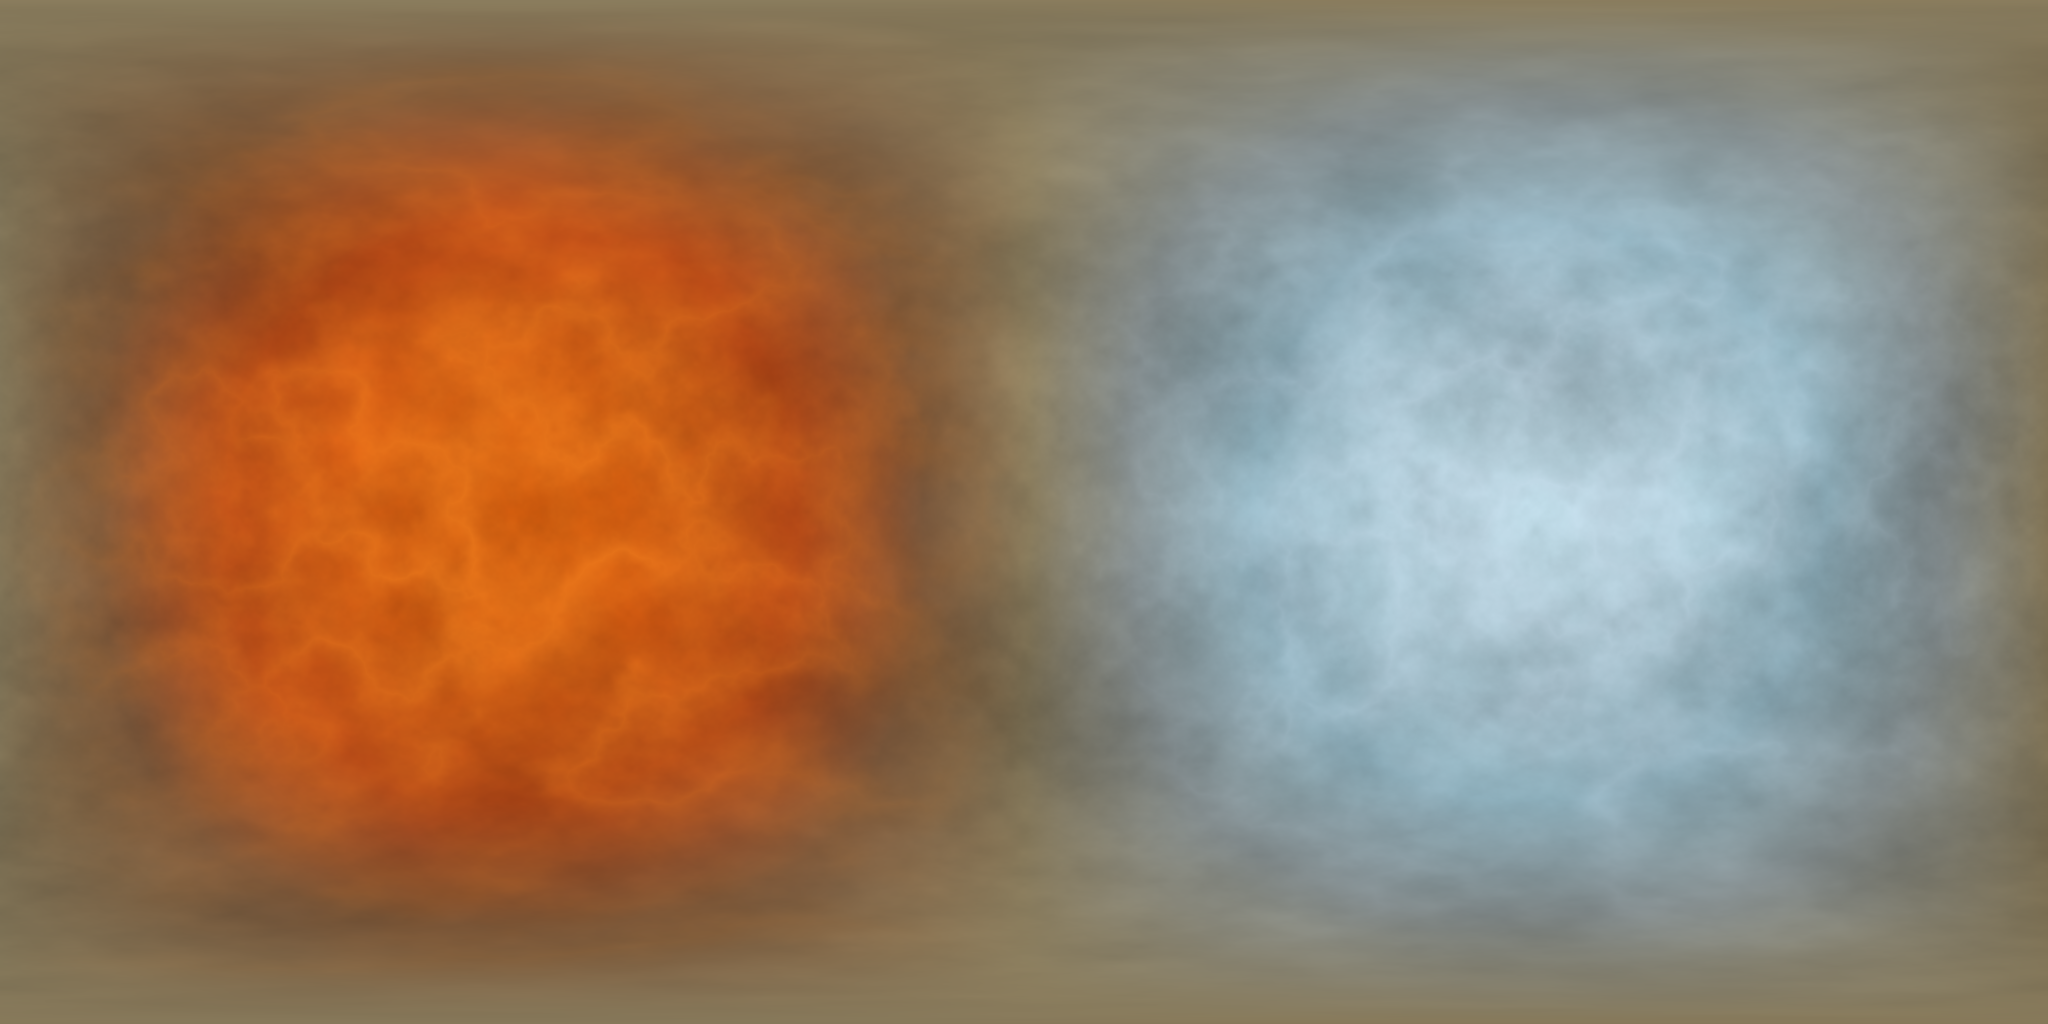
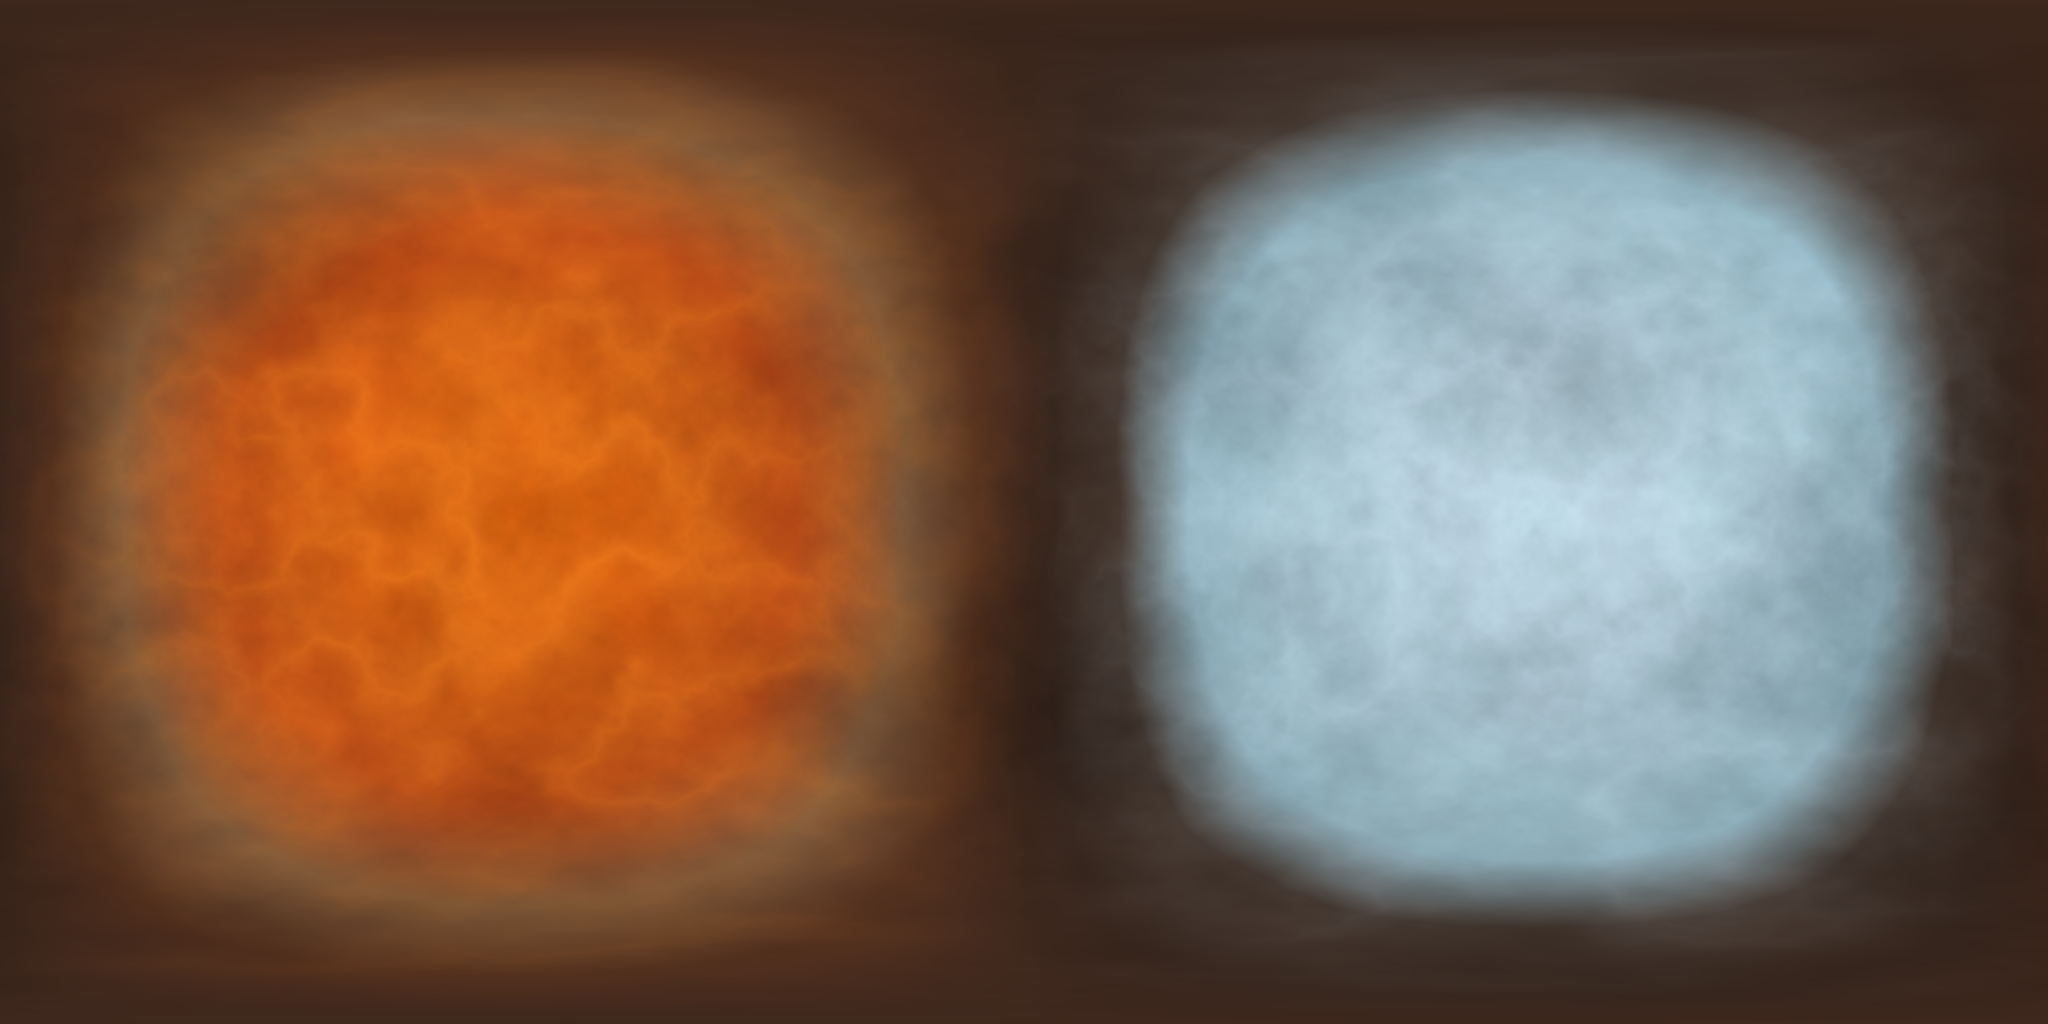
feat: dark volcanic mountain terminator, kill gray/tan band (ci-6i1)
The star-map globe showed an ugly wide GRAY/TAN vertical stripe between the
volcanic side and the ice side. It was painted into the albedo by the two middle
TERRAIN_STOPS in scripts/gen-planet-maps.py: a sandy building-neutral
(0.62,0.56,0.42) and a cool grey dust (0.60,0.64,0.64), the old "survivable sandy
terminator ribbon". On the tidally-locked disc they filled a broad central swath.

Replace both neutrals with a broad band of DARK VOLCANIC MOUNTAINS (reddish-brown
/ near-black basalt #5A3524, #3E2A20, #4A3A30) filling the middle third, so the
disc reads molten -> dark mountains -> ice with no gray/tan blur. The fire lava
ends and the cold frost/ice ends are unchanged.

terrain.lua COLOR_STOPS (the in-game map-view danger gradient) is updated in
lockstep so the from-space art and the map view stay consistent, per the ramp's
documented mirror contract. This is the map-view / from-space COLOUR overlay only,
not the ground TILE textures: the building band at spawn is still sandy soil tiles
(§3), it just paints dark on the map dot.

test_planet_maps.py: the "sandy midpoint" terminator assertion is replaced with a
dark-mountain guard (low luminance, warm R>G>B, R clearly above B, NOT neutral
gray). The fire and ice guards are kept. Maps regenerated + star-map re-baked via
render-planet.sh; the live orbital backdrop inherits the same maps, confirmed with
a headless EGL render saved to docs/verification/ci-6i1-terminator-orbital.png.
[…]

diff --git a/mods/cindra/unit-tests/test_planet_maps.py b/mods/cindra/unit-tests/test_planet_maps.py
@@ -3,12 +3,19 @@
 #
 # The map generator is pure and deterministic, so its output is testable off-game
 # without Blender or Factorio. This guards the ci-i9m REDESIGN of the from-space
-# look, which SUPERSEDES the ci-fg6 painted-sandy-seam contract per the mayor:
+# look, which SUPERSEDES the ci-fg6 painted-sandy-seam contract per the mayor,
+# and the ci-6i1 recolour of the terminator belt (dark volcanic mountains, NOT a
+# gray/tan sandy blur):
 #
 #   • NO PAINTED SEAM. The terminator is a SMOOTH hot->cold albedo ramp (mirroring
-#     the in-game terrain ramp), not a bright self-lit sandy stripe down the middle.
-#     The old bug was a hard vertical line; here the sandy midpoint carries almost
+#     the in-game terrain ramp), not a bright self-lit stripe down the middle.
+#     The old bug was a hard vertical line; here the terminator carries almost
 #     no self-glow, so the day/night falloff comes from the parallel KEY LIGHT.
+#   • DARK VOLCANIC MOUNTAINS AT THE TERMINATOR (ci-6i1). The middle third between
+#     fire and ice is a BROAD band of dark reddish-brown / near-black basalt: LOW
+#     luminance and WARM (R>G>B, R clearly above B), NOT the old gray/tan sandy
+#     ribbon (which read as an ugly gray stripe from space) and NOT a neutral gray
+#     (R != B). The gray/tan neutrals are gone from the ramp entirely.
 #   • ICE READS AS ICE. The frozen hemisphere is PALE cyan-white frost (our terrain),
 #     NOT a near-black vault laced with saturated electric-blue cracks (which read
 #     as Fulgora lightning). It goes dark via the LIGHT falloff, not a black albedo.
@@ -76,7 +83,7 @@ fire_bright = float(np.median(bright(albedo, fire)))
 seam_bright = float(np.median(bright(albedo, seam)))
 ice_bright = float(np.median(bright(albedo, ice)))
 
-# --- NO PAINTED SANDY SEAM (ci-i9m supersedes ci-fg6) -----------------------
+# --- NO PAINTED SEAM (ci-i9m supersedes ci-fg6) -----------------------------
 # The terminator must NOT be a bright self-lit stripe: its emission is near-zero,
 # so it falls dark where the key light does not reach it (the natural terminator).
 seam_emax = float(np.median(emax[seam]))
@@ -85,15 +92,29 @@ ice_emax = float(np.median(emax[ice]))
 check("terminator carries NO bright self-glow band (median emax < 20)",
       seam_emax < 20.0,
       f"seam median emax={seam_emax:.1f}")
-# The terminator is also not a bright albedo SPIKE: the sandy midpoint is a
-# neutral crossover, dimmer than the pale ice and no brighter than the fiery limb.
-check("terminator is a smooth crossover, not a bright albedo spike",
+# The terminator is a DARK belt, not a bright albedo spike: the mountain band is
+# dimmer than the pale ice and no brighter than the fiery limb.
+check("terminator is a dark belt, not a bright albedo spike",
       seam_bright < ice_bright and seam_bright <= fire_bright + 20.0,
       f"seam={seam_bright:.1f} fire={fire_bright:.1f} ice={ice_bright:.1f}")
+
+# --- DARK VOLCANIC MOUNTAINS AT THE TERMINATOR (ci-6i1) ---------------------
+# The middle third is a broad band of dark reddish-brown / near-black basalt.
 seam_alb = rgb_mean(albedo, seam)
-check("terminator albedo is sandy-neutral warm (R>=G>=B)",
-      seam_alb[0] >= seam_alb[1] >= seam_alb[2],
-      f"albedo={seam_alb.round(1)}")
+# LOW luminance: the belt is dark rock, well below the pale ice and not a bright
+# neutral. (The old sandy/grey stops sat around ~150; dark mountains are far below.)
+check("terminator is DARK volcanic rock (mean brightness < 90, << ice)",
+      seam_bright < 90.0 and seam_bright < 0.5 * ice_bright,
+      f"seam={seam_bright:.1f} ice={ice_bright:.1f}")
+# WARM, not gray/tan: red clearly dominates blue (basalt reddish-brown), the
+# opposite of the old cool-grey-dust neutral (R ~= G ~= B).
+check("terminator albedo is WARM basalt (R>G>B, R clearly above B: R-B > 12)",
+      seam_alb[0] > seam_alb[1] > seam_alb[2] and (seam_alb[0] - seam_alb[2]) > 12.0,
+      f"albedo={seam_alb.round(1)}  R-B={(seam_alb[0] - seam_alb[2]):.1f}")
+# NOT a neutral gray: reject the cool-grey-dust look (R within ~15% of B).
+check("terminator is NOT neutral gray (R > 1.3*B)",
+      seam_alb[0] > 1.3 * seam_alb[2],
+      f"albedo={seam_alb.round(1)}  R/B={seam_alb[0] / max(seam_alb[2], 1e-6):.2f}")
 
 # --- FIRE HEMISPHERE: lava / volcanic, strongly glowing ---------------------
 fire_alb = rgb_mean(albedo, fire)

diff --git a/scripts/gen-planet-maps.py b/scripts/gen-planet-maps.py
@@ -120,20 +120,28 @@ def smoothstep(a, b, x):
 
 
 # Hot -> cold surface colour ramp, MIRRORING the in-game map-view ramp in
-# scripts/terrain.lua (COLOR_STOPS, ci-4h7): reds sunward, a sandy neutral centre,
-# pale cyan/frost nightward. Sampling the SAME ramp for the from-space art is what
-# makes the orbital/star-map planet "read as our terrain" (ci-i9m): the fiery
-# hemisphere is lava/volcanic, the frozen hemisphere is PALE ICE (not a near-black
-# Fulgora-electric vault), and the terminator is a smooth sandy blend -- NOT a
-# painted stripe. The day/night falloff is supplied by the parallel key light
-# (bake) / light_direction (orbit), not by a self-lit seam.
+# scripts/terrain.lua (COLOR_STOPS, ci-4h7): reds sunward, a BROAD DARK VOLCANIC
+# MOUNTAIN belt at the centre, pale cyan/frost nightward. Sampling the SAME ramp
+# for the from-space art is what makes the orbital/star-map planet "read as our
+# terrain" (ci-i9m): the fiery hemisphere is lava/volcanic, the frozen hemisphere
+# is PALE ICE (not a near-black Fulgora-electric vault), and the terminator is a
+# band of dark basalt mountains between fire and ice -- NOT a gray/tan sandy blur.
+# The day/night falloff is supplied by the parallel key light (bake) /
+# light_direction (orbit), not by a self-lit seam.
+#
+# ci-6i1: the old (0.50) sandy-neutral + (0.66) cool-grey-dust stops painted a
+# wide gray/tan stripe into the albedo on the tidally-locked disc. Replaced with a
+# broad band of dark reddish-brown / near-black basalt (no gray, no tan) filling
+# roughly the middle third. terrain.lua COLOR_STOPS is updated to match (space art
+# and in-game map ramp stay consistent).
 TERRAIN_STOPS = [
     (0.00, (0.98, 0.42, 0.06)),   # lava, orange-red
     (0.18, (0.80, 0.30, 0.10)),   # molten crust
-    (0.35, (0.55, 0.40, 0.28)),   # warm volcanic brown
-    (0.50, (0.62, 0.56, 0.42)),   # sandy building neutral (terminator)
-    (0.66, (0.60, 0.64, 0.64)),   # cool grey dust
-    (0.82, (0.66, 0.82, 0.88)),   # pale frost
+    (0.32, (0.55, 0.40, 0.28)),   # warm volcanic brown (fire -> mountains)
+    (0.42, (0.353, 0.208, 0.141)),  # dark volcanic mountains #5A3524
+    (0.54, (0.243, 0.165, 0.125)),  # darkest basalt #3E2A20
+    (0.64, (0.290, 0.227, 0.188)),  # cooling basalt #4A3A30 (mountains -> ice)
+    (0.74, (0.66, 0.82, 0.88)),   # pale frost
     (1.00, (0.82, 0.95, 1.00)),   # icy white-blue
 ]
 

diff --git a/PLAYTEST.md b/PLAYTEST.md
@@ -130,6 +130,27 @@ CURRENT `(tune)` values on `main`; the balance pass (ci-63d) will move them.
   "the live globe visibly reads like the icon in motion" confirmation a still image
   cannot fully judge (the terminator steam still drifts, ci-ane).
 
+- [ ] **[LANDED] Terminator reads as DARK VOLCANIC MOUNTAINS, no gray/tan band (ci-6i1).**
+  The human flagged an ugly wide GRAY/TAN vertical stripe wedged between the volcanic
+  side and the ice side of the star-map globe. It was painted into the ALBEDO by the
+  two middle `TERRAIN_STOPS` (a sandy building-neutral + a cool grey dust) in
+  `scripts/gen-planet-maps.py`, mirrored in `scripts/terrain.lua` `COLOR_STOPS`. Both
+  ramps now replace those neutrals with a BROAD band of DARK VOLCANIC MOUNTAINS
+  (reddish-brown / near-black basalt: `#5A3524`, `#3E2A20`, `#4A3A30`) filling the
+  middle third, so the disc reads molten -> dark mountains -> ice with NO gray/tan
+  blur. Maps regenerated + star-map re-baked via `scripts/render-planet.sh`. *Repro:*
+  in-game open the star-map / navigate to Cindra (`./play.sh`), or render the live
+  orbital backdrop with `scripts/render-orbit.sh`. *Look for:* a dark basalt mountain
+  belt between the fire limb and the ice side, and NO gray/tan stripe anywhere.
+  *Fallback:* the baked star-map sprite + maps are verified off-game
+  (`unit-tests/test_planet_maps.py`: the terminator asserts DARK, WARM basalt --
+  low luminance, R>G>B, not neutral gray), AND a real in-engine orbital screenshot
+  was captured headless (Xvfb + EGL/llvmpipe) confirming the dark belt with no
+  gray/tan stripe: `docs/verification/ci-6i1-terminator-orbital.png`. This entry is
+  ONLY the remaining "does it read right in the live client, in motion" judgement a
+  still + headless render cannot fully make (needs a display-capable operator /
+  Overseer); do NOT block the map/art merge on it.
+
 - [ ] **[LANDED] Planet is STATIC in the space view: no rotate, no wobble (ci-ane).**
   The Overseer flagged the Cindra globe as ROTATING / WOBBLING in the space/starmap
   view when it should sit still (tidal lock). The spin was already frozen

diff --git a/docs/verification/README.md b/docs/verification/README.md
@@ -87,6 +87,41 @@ scripts/render-orbit.sh   # writes orbit-close.png / orbit-wide.png to .orbit-re
 
 ---
 
+# Dark volcanic mountains at the terminator (ci-6i1)
+
+![Live orbital backdrop: dark mountain belt, no gray/tan stripe](ci-6i1-terminator-orbital.png)
+
+`ci-6i1-terminator-orbital.png` is a real, unedited in-engine orbital screenshot
+(headless Factorio under Xvfb + EGL/llvmpipe, `scripts/render-orbit.sh`) of a
+space platform in orbit of Cindra, captured after the recolour. The human had
+flagged an ugly wide GRAY/TAN vertical stripe wedged between the volcanic side and
+the ice side of the star-map globe.
+
+## What it verifies
+
+- **The gray/tan band is GONE.** The two middle `TERRAIN_STOPS` in
+  `scripts/gen-planet-maps.py` (a sandy building-neutral `(0.62,0.56,0.42)` + a
+  cool grey dust `(0.60,0.64,0.64)`) painted that stripe into the albedo. They are
+  replaced by a BROAD band of DARK VOLCANIC MOUNTAINS (reddish-brown / near-black
+  basalt: `#5A3524`, `#3E2A20`, `#4A3A30`) filling the middle third.
+- **Reads molten -> dark mountains -> ice.** The disc now shows the glowing lava
+  hemisphere, a dark basalt mountain belt at the terminator, then the frozen
+  nightside, with no gray/tan blur anywhere between.
+- **Ramps stay consistent.** `scripts/terrain.lua` `COLOR_STOPS` (the in-game
+  map-view danger gradient) is updated in lockstep so the from-space art and the
+  map view agree. The albedo maps are verified off-game by
+  `unit-tests/test_planet_maps.py` (the terminator now asserts DARK, WARM basalt:
+  low luminance, R>G>B, R clearly above B, not a neutral gray).
+
+To regenerate the maps + bake and the orbital screenshot:
+
+```bash
+scripts/render-planet.sh   # maps, bake, star-map sprite, icon, thumbnail
+scripts/render-orbit.sh    # live orbital screenshots -> .orbit-render/script-output/
+```
+
+---
+
 # Bootstrap rock: stone tint (ci-jvc)
 
 ![Rock stone-tint before/after](ci-jvc-rock-stone-tint.png)

diff --git a/DESIGN.md b/DESIGN.md
@@ -168,6 +168,16 @@ recommendation — both **IMPLEMENTED (item 2)**:
 - **Art:** v1 reuses vanilla Vulcanus icons (a hot sunward world reads
   correctly). Bespoke ribbon/terminator art is a later pass — see
   [`PLAYTEST.md`](PLAYTEST.md). Gameplay does not depend on it.
+- **From-space / map-view colour ramp (ci-6i1):** the star-map sprite + live
+  orbital backdrop (`scripts/gen-planet-maps.py` `TERRAIN_STOPS`) and the in-game
+  map-view danger gradient (`scripts/terrain.lua` `COLOR_STOPS`) share ONE hot→cold
+  ramp: lava orange → molten crust → a BROAD band of DARK VOLCANIC MOUNTAINS
+  (reddish-brown / near-black basalt, no gray, no tan) across the middle third →
+  pale frost → icy white-blue. This deliberately REPLACES the earlier warm
+  sandy/grey terminator neutral (which read as an ugly gray/tan stripe from space).
+  Note the distinction: this is the map-view / from-space COLOUR overlay, not the
+  ground TILE textures — the building band at spawn is still sandy soil tiles (§3),
+  it just paints dark on the map dot so the terminator reads as mountains, not sand.
 
 ## 4a. Resources & worldgen — IMPLEMENTED (item 3; rewritten ci-3yl)
 
